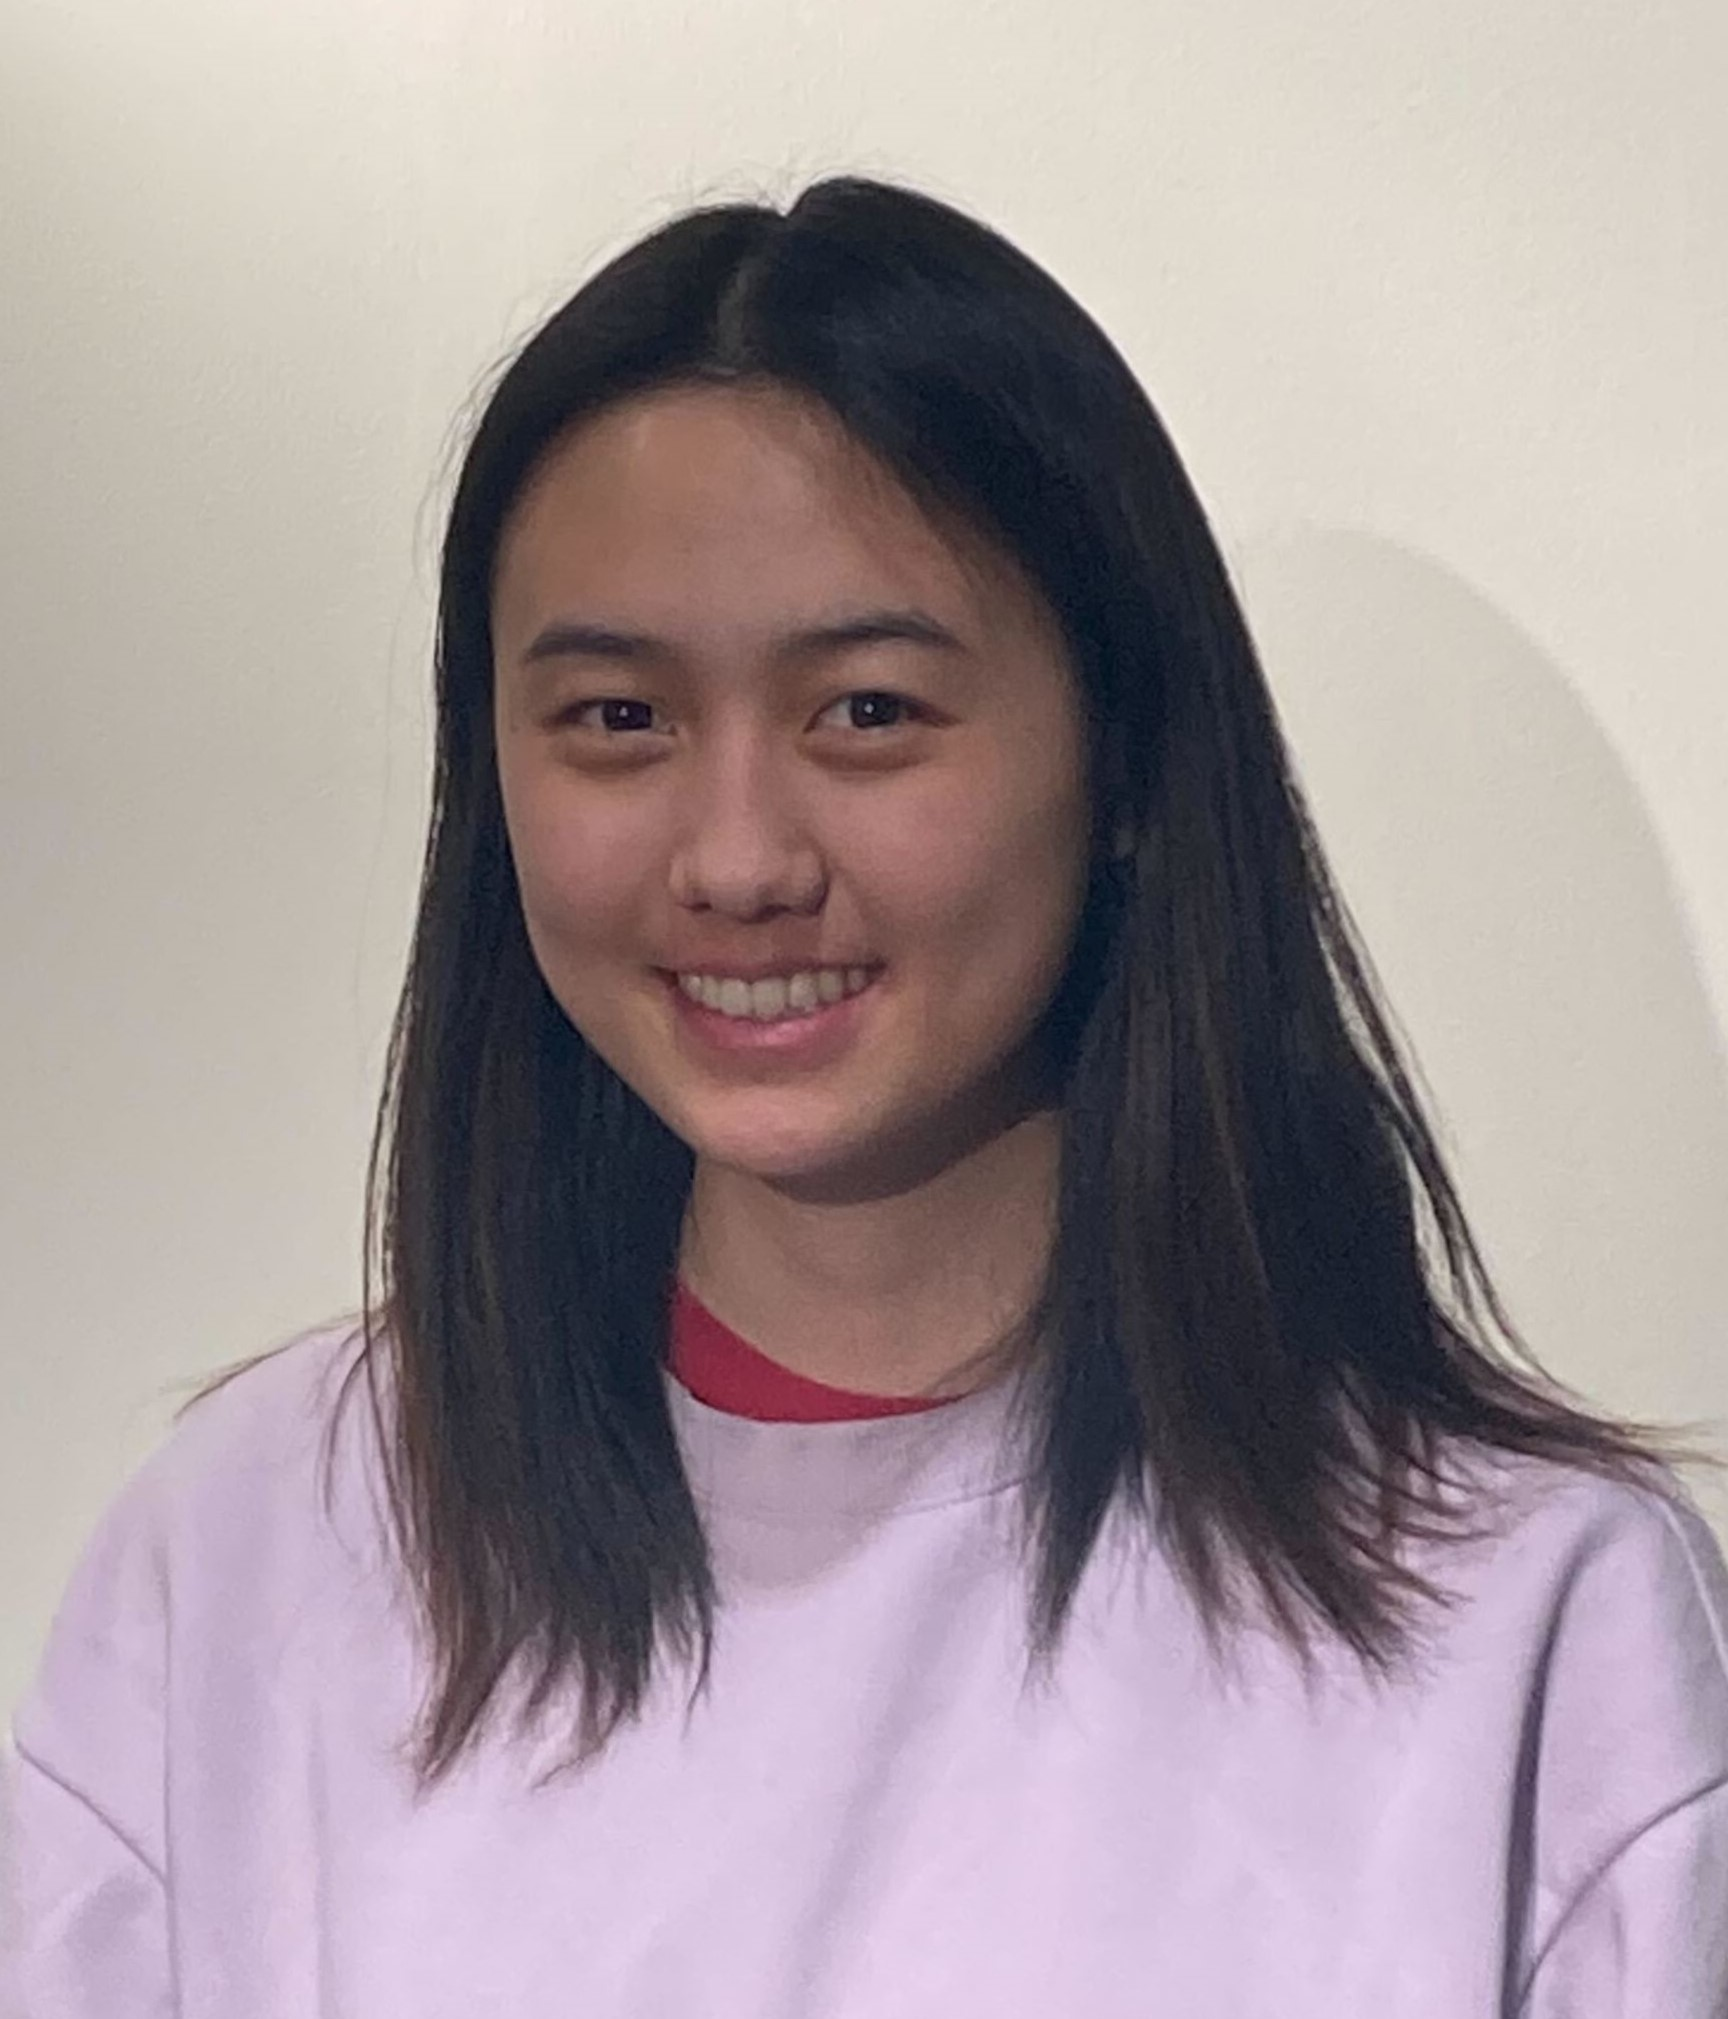
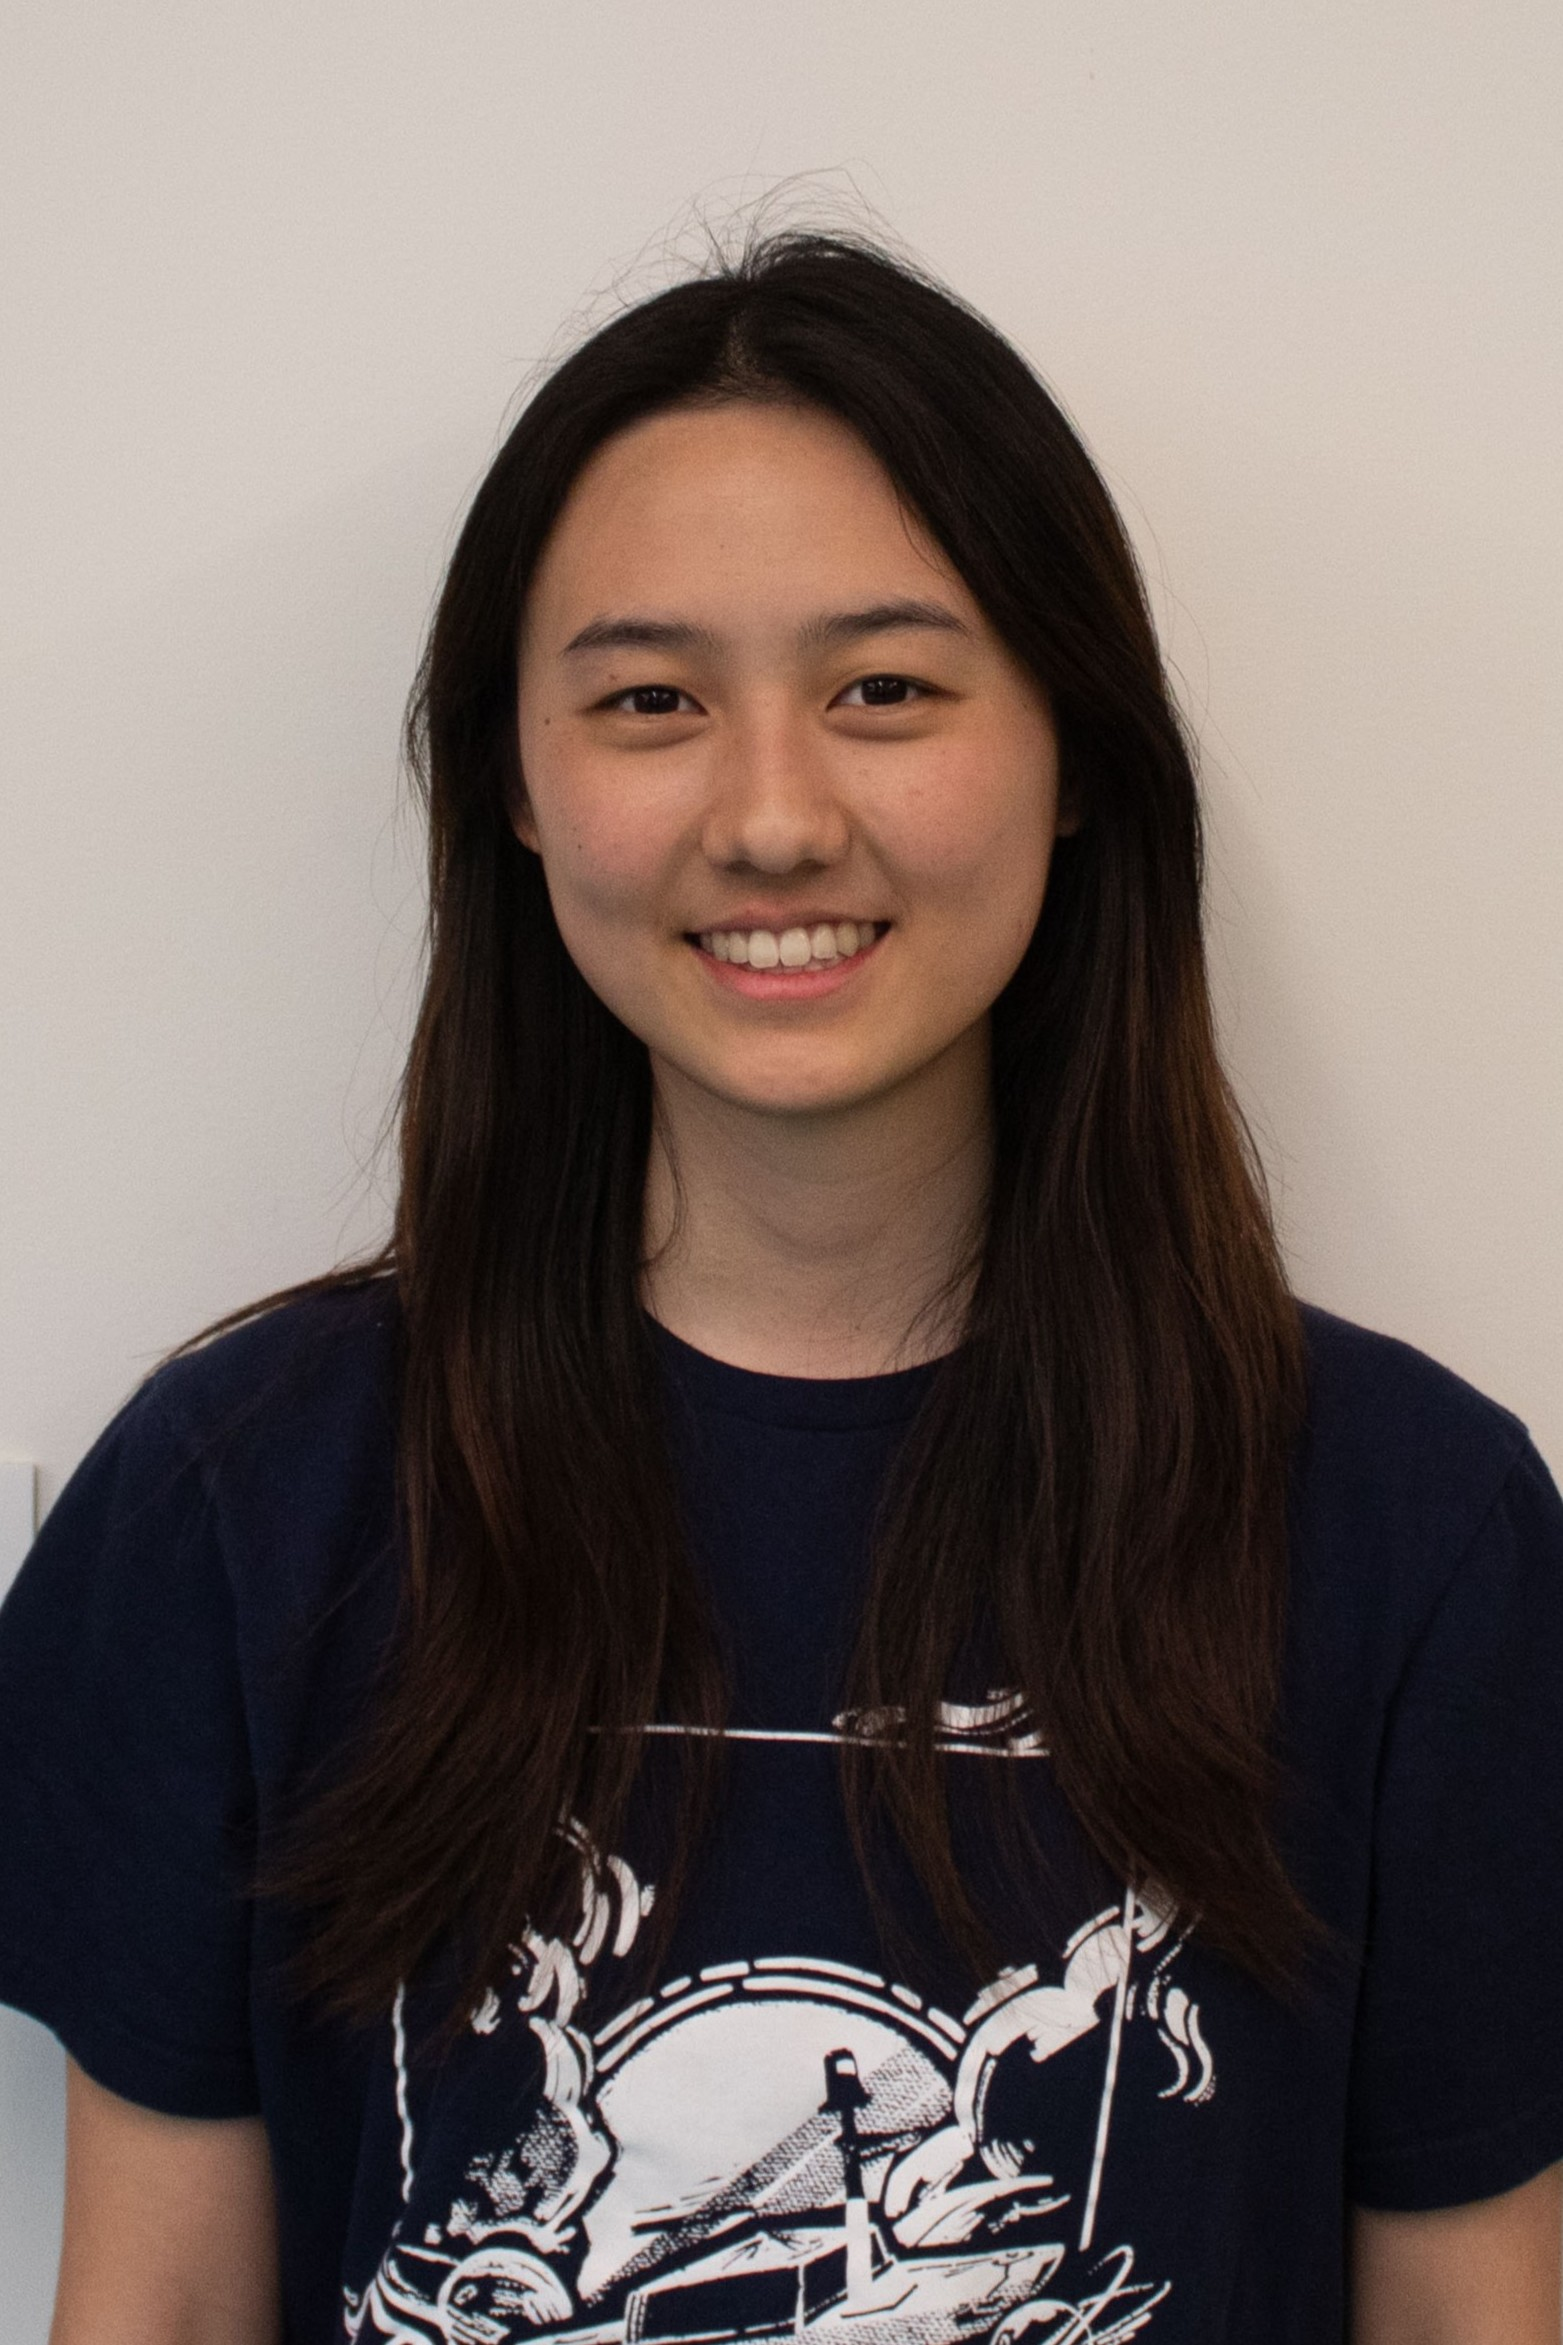
updating leads and headshots

diff --git a/team.html b/team.html
@@ -122,35 +122,13 @@
             </div>
           </div>
         </section>
-        
-        <div class="col-lg">
-          <div class="member d-flex align-items-start mx-auto">
-            <div class="pic"><img src="Pictures/Headshots/Amy-Headshot.jpg" class="img-fluid team-img" alt=""></div>
-              <div class="member-info">
-                <h4>Amy Shi</h4>
-                <span>Captain</span>
-                <p>amys0930@mit.edu</p>
-              </div>
-            </div>
-          </div>
-          
-          <div class="col-lg">
-            <div class="member d-flex align-items-start mx-auto">
-              <div class="pic"><img src="Pictures/Headshots/toya-headshot.jpg" class="img-fluid team-img" alt=""></div>
-              <div class="member-info">
-                <h4>Toya Takahashi</h4>
-                <span>Autonomy Co-Lead</span>
-                <p>toyat@mit.edu</p>
-              </div>
-            </div>
-          </div>
           
           <div class="col-lg">
             <div class="member d-flex align-items-start mx-auto">
               <div class="pic"><img src="Pictures/Headshots/janelle-headshot.jpg" class="img-fluid team-img" alt=""></div>
               <div class="member-info">
                 <h4>Janelle Cai</h4>
-                <span>Autonomy Co-Lead</span>
+                <span>Captain</span>
                 <p>jcai18@mit.edu</p>
               </div>
             </div>
@@ -158,11 +136,22 @@
           
           <div class="col-lg">
             <div class="member d-flex align-items-start mx-auto">
-              <div class="pic"><img src="Pictures/Headshots/wells-headshot.jpg" class="img-fluid team-img" alt=""></div>
+              <div class="pic"><img src="Pictures/Headshots/brendon-headshot.jpg" class="img-fluid team-img" alt=""></div>
               <div class="member-info">
-                <h4>Wells Crosby</h4>
+                <h4>Brendon Jiang</h4>
                 <span>Autonomy Co-Lead</span>
-                <p>wcrosby@mit.edu</p>
+                <p>brendonj@mit.edu</p>
+              </div>
+            </div>
+          </div>
+
+          <div class="col-lg">
+            <div class="member d-flex align-items-start mx-auto">
+              <div class="pic"><img src="Pictures/Headshots/panos-headshot.jpg" class="img-fluid team-img" alt=""></div>
+              <div class="member-info">
+                <h4>Panagiotis Liampas</h4>
+                <span>Autonomy Co-Lead</span>
+                <p>pliam005\@mit.edu</p>
               </div>
             </div>
           </div>
@@ -191,11 +180,22 @@
           
           <div class="col-lg">
             <div class="member d-flex align-items-start mx-auto">
-              <div class="pic"><img src="Pictures/Headshots/jared-headshot.jpg" class="img-fluid team-img" alt=""></div>
+              <div class="pic"><img src="Pictures/Headshots/ved-headshot.jpg" class="img-fluid team-img" alt=""></div>
               <div class="member-info">
-                <h4>Jared Byars</h4>
-                <span>MechE Co-Lead and Documentation Lead</span>
-                <p>jared229@mit.edu</p>
+                <h4>Ved Ganesh</h4>
+                <span>MechE Co-Lead</span>
+                <p>vxg@mit.edu</p>
+              </div>
+            </div>
+          </div>
+
+          <div class="col-lg">
+            <div class="member d-flex align-items-start mx-auto">
+              <div class="pic"><img src="Pictures/Headshots/mckinley-headshot.jpg" class="img-fluid team-img" alt=""></div>
+              <div class="member-info">
+                <h4>McKinley Pestano-Young</h4>
+                <span>MechE Co-Lead</span>
+                <p>mpest519@mit.edu</p>
               </div>
             </div>
           </div>
@@ -221,17 +221,6 @@
               </div>
             </div>
           </div> 
-
-          <div class="col-lg">
-            <div class="member d-flex align-items-start mx-auto">
-              <div class="pic"><img src="Pictures/Headshots/ashley-headshot.jpg" class="img-fluid team-img" alt=""></div>
-              <div class="member-info">
-                <h4>Ashley Zhang</h4>
-                <span>Media Lead</span>
-                <p>ashleyz@mit.edu</p>
-              </div>
-            </div>
-          </div>
           
           <div class="col-lg">
             <div class="member d-flex align-items-start mx-auto">
